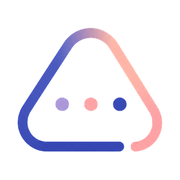
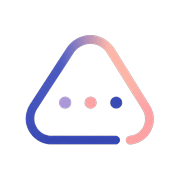
탭 아이콘에서 흰 배경 제거
favicon 3종의 alpha 최솟값이 213~240이었다. 투명 영역이 사실상 없고 흰 판이
깔려 있어, 다크 모드 탭이나 어두운 배경에서 심볼이 흰 사각형 안에 갇혀 보였다.
요청서 2.2가 「투명 배경 심볼」을 적어 두었는데 실제 파일이 따라가지 않았다.

투명한 reqbridge-mark.png 를 원본으로 정사각 캔버스에 다시 앉혔다.

- favicon.ico     16·32·48·64 네 크기, 각 엔트리 PNG. alpha 0 확보
- favicon-192.png 192, apple-touch-icon.png 180
- favicon.svg     새로 추가. 지원 브라우저가 먼저 쓰고 배율에 안 깨진다
- apple touch 는 iOS 가 투명부를 합성하는 경우가 있어 여백을 조금 더 줬다

밝은 판·어두운 판 양쪽에서 흰 박스 없이 심볼만 나오는 것을 확인했다.

Claude-Session: https://claude.ai/code/session_01NiMYBDNNn6AqMjjFsurtAL

diff --git a/frontend/index.html b/frontend/index.html
@@ -8,6 +8,8 @@
 
     <!-- 탭 아이콘. 로고 마크를 정사각 캔버스 가운데에 놓아 만들었다.
          원본(240x205)이 정사각이 아니라 그대로 걸면 탭에서 눌리거나 치우친다. -->
+    <!-- SVG 를 먼저 둔다. 지원 브라우저는 이걸 쓰고, 벡터라 배율에 안 깨진다. -->
+    <link rel="icon" type="image/svg+xml" href="/favicon.svg" />
     <link rel="icon" href="/favicon.ico" sizes="any" />
     <link rel="icon" type="image/png" sizes="192x192" href="/favicon-192.png" />
     <link rel="apple-touch-icon" href="/apple-touch-icon.png" />
